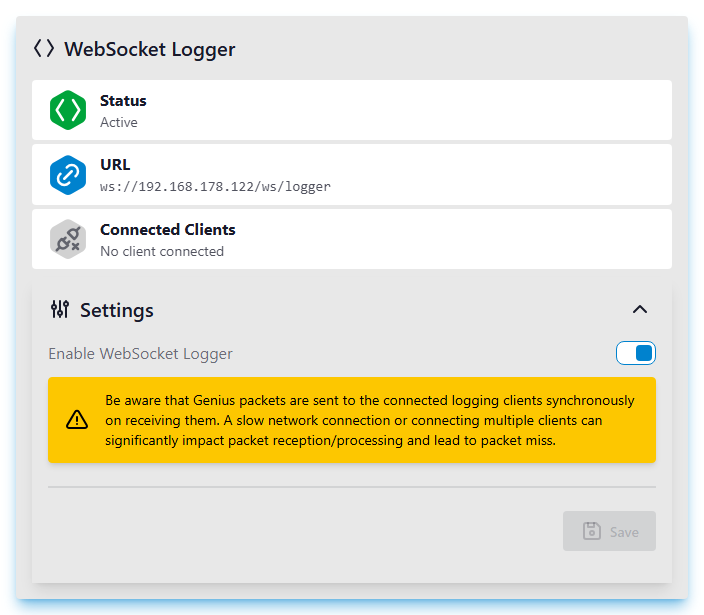
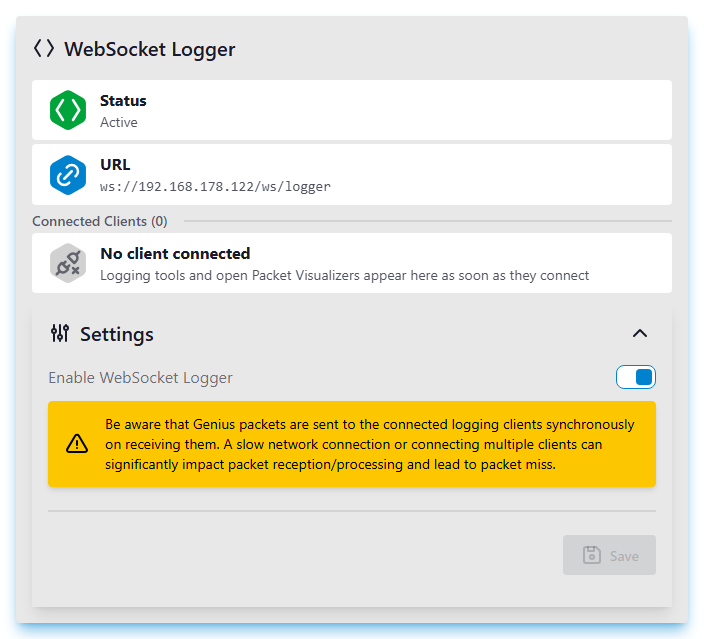
docs(wslogger): heading above the connected clients, new screenshots

diff --git a/docs/features/websocket-interface.md b/docs/features/websocket-interface.md
@@ -21,13 +21,13 @@ The upper part of the WebSocket Logger card shows the state of the logger, the s
 
 - **Status** - *Active*, or *Disabled* when the logger refuses connections
 - **URL** - the address logging tools connect to (only while active)
-- **One entry per connected client** - logging tools as well as open [Packet Visualizers](packet-visualizer.md), in this browser or elsewhere (only while active):
+- **Connected Clients** - a heading with the number of connected clients, below it one entry per client - logging tools as well as open [Packet Visualizers](packet-visualizer.md), in this browser or elsewhere (only while active):
     - **Name** - *Packet Visualizer* for the built-in one, the name a tool gave itself (see [Naming a client](#naming-a-client)), otherwise the browser or tool from its User-Agent (e.g. *Chrome on Windows*, *Python/3.13 websockets/13.1*)
     - **Address** - IP address and port of the connection, followed by the browser or tool if the client has a name
-    - **Connected for** - how long the connection has been open; the tooltip shows since when
+    - **connected for** - how long the connection has been open; the tooltip shows since when
     - **Packets and data** - radio packets sent to the client since it connected, and their data (80 bytes per packet). Every repetition of a packet is counted, as the logger forwards each one
 
-The counters live in the gateway's memory and start at zero with every connection. Without a connected client the entry says **No client connected**:
+The counters live in the gateway's memory and start at zero with every connection. Without a connected client the list says **No client connected**:
 
 ![WebSocket Logger without a connected client](../assets/images/software/gg-gateway-websocket-logger-no-clients.png)
 

diff --git a/CHANGELOG.md b/CHANGELOG.md
@@ -126,7 +126,7 @@ The packet that starts a line test also starts a network test. The byte that was
 ## WebSocket Logger: Connected Clients
 The WebSocket Logger page lists the clients that are connected to the logger right now.
 
-- **Laid out like the MQTT page**: the status on top - *Active* / *Disabled*, the URL to connect to and one entry per connected client - and the settings below
+- **Laid out like the MQTT page**: the status on top - *Active* / *Disabled*, the URL to connect to and, under the heading *Connected Clients*, one entry per connected client - and the settings below
 - **One entry per connection**: what connected - the built-in *Packet Visualizer*, a tool that named itself, or the browser / tool from its User-Agent - with IP address and port, how long the connection has been open, and how many radio packets and how much data were sent to it
 - **No client connected** is shown as such; URL and clients are only listed while the logger is enabled
 - **Clients can name themselves** with `?client=<name>` in the URL; the Packet Visualizer connects as `packet-visualizer`
